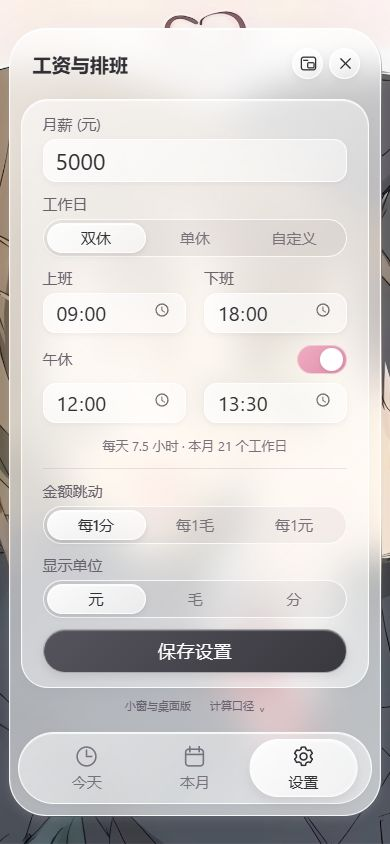
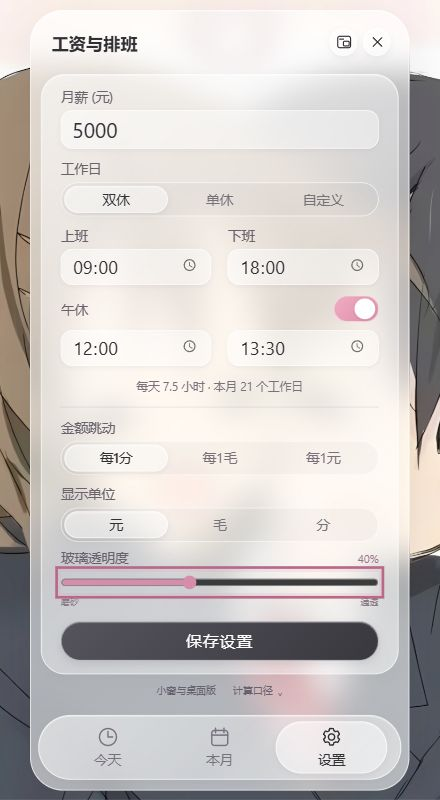
feat: add adjustable glass transparency for main and mini windows

diff --git a/dist/appearance.css b/dist/appearance.css
@@ -1,0 +1,24 @@
+:root{--glass-outerTop:.69;--glass-outerMid:.54;--glass-outerEnd:.59;--glass-surfaceTop:.54;--glass-surfaceMid:.35;--glass-surfaceEnd:.49;--glass-control:.52;--glass-input:.42;--glass-track:.052;--glass-border:.64;--glass-highlight:.41;--glass-blur:19px;--glass-miniSurface:.73;--glass-miniArt:.6}
+.app-shell{background:linear-gradient(135deg,rgba(255,255,255,var(--glass-outerTop)),rgba(255,255,255,var(--glass-outerMid)) 50%,rgba(255,255,255,var(--glass-outerEnd)));border-color:rgba(255,255,255,var(--glass-border));backdrop-filter:blur(var(--glass-blur)) saturate(1.15);-webkit-backdrop-filter:blur(var(--glass-blur)) saturate(1.15);box-shadow:inset 0 1px 1px rgba(255,255,255,var(--glass-highlight)),0 20px 65px rgba(58,41,56,.12)}
+.glass{background:linear-gradient(135deg,rgba(255,255,255,var(--glass-surfaceTop)),rgba(255,255,255,var(--glass-surfaceMid)) 52%,rgba(255,255,255,var(--glass-surfaceEnd)));border-color:rgba(255,255,255,var(--glass-border));box-shadow:inset 0 1px 1px rgba(255,255,255,var(--glass-highlight)),0 5px 11px rgba(67,43,61,.035)}
+.segment-thumb,.nav-indicator,.app-icon,.icon-button{background:linear-gradient(145deg,rgba(255,255,255,var(--glass-control)),rgba(255,255,255,var(--glass-input)));border-color:rgba(255,255,255,var(--glass-border));box-shadow:inset 0 1px 2px rgba(255,255,255,var(--glass-highlight)),0 3px 8px rgba(67,43,61,.07)}
+.segmented{background:rgba(120,110,125,var(--glass-track));border-color:rgba(255,255,255,var(--glass-border))}
+.salary-input,input[type=time]{background:linear-gradient(130deg,rgba(255,255,255,var(--glass-control)),rgba(255,255,255,var(--glass-input)));border-color:rgba(255,255,255,var(--glass-border))}
+.calculation-note p{background:rgba(255,255,255,var(--glass-control))}
+.mini-card{background:linear-gradient(135deg,rgba(255,255,255,var(--glass-surfaceTop)),rgba(255,255,255,var(--glass-surfaceMid)));border-color:rgba(255,255,255,var(--glass-border));box-shadow:inset 0 1px 2px rgba(255,255,255,var(--glass-highlight)),0 8px 28px rgba(53,37,56,.09)}
+.mini-card:before{opacity:var(--glass-miniArt)}.mini-card:after{background:rgba(255,250,252,var(--glass-miniSurface));backdrop-filter:blur(var(--glass-blur));-webkit-backdrop-filter:blur(var(--glass-blur))}
+.mini-units button[aria-pressed=true],.mini-icon[aria-pressed=true]{background:rgba(255,255,255,var(--glass-control))}
+html[data-glass-clear=true] .app-shell,html[data-glass-clear=true] .mini-card{text-shadow:0 1px 2px rgba(255,255,255,.95),0 0 7px rgba(255,255,255,.5)}
+html[data-glass-clear=true] .app-shell svg,html[data-glass-clear=true] .mini-card svg{filter:drop-shadow(0 1px 1px rgba(255,255,255,.7))}
+html[data-glass-clear=true] .clock-panel .eyebrow,html[data-glass-clear=true] .date-line{color:#4d424d}
+html[data-glass-clear=true] .month-preview,html[data-glass-clear=true] .metric-strip,html[data-glass-clear=true] .bottom-nav button{color:#fff;text-shadow:0 1px 3px rgba(0,0,0,.8)}
+html[data-glass-clear=true] .month-preview .muted,html[data-glass-clear=true] .metric-strip .muted{color:rgba(255,255,255,.85)}
+html[data-glass-clear=true] .bottom-nav svg{filter:drop-shadow(0 1px 1px rgba(0,0,0,.7))}
+.glass-label-row{display:flex;justify-content:space-between;align-items:center}.glass-label-row output{font-size:12px;color:#9e718a;font-variant-numeric:tabular-nums}
+.glass-range{display:block;width:100%;height:24px;margin:0;accent-color:#d68da9;cursor:pointer;background:transparent}
+.glass-range-captions{display:flex;justify-content:space-between;font-size:10px;color:#8a7b89;line-height:15px;margin-top:2px}
+.glass-field{margin-top:-3px;margin-bottom:14px}
+.mini-appearance{position:absolute;left:11px;right:11px;top:44px;z-index:5;padding:8px 10px;border:1px solid #fff;border-radius:13px;background:rgba(255,250,253,.94);box-shadow:0 5px 20px #5a3c581c;backdrop-filter:blur(16px);color:#655063;text-shadow:none}
+.mini-appearance label{display:flex;align-items:center;justify-content:space-between;font-size:10px;line-height:15px}.mini-appearance input{height:20px}.mini-appearance output{color:#ad6b8c;font-variant-numeric:tabular-nums}
+body[data-compact=true] .mini-appearance{top:32px;padding:5px 9px;border-radius:11px}
+@media(max-height:650px){.glass-field{margin-bottom:10px}.glass-range{height:20px}.glass-range-captions{font-size:9px;line-height:12px}}

diff --git a/dist/index.html b/dist/index.html
@@ -9,6 +9,7 @@
   <link rel="icon" type="image/svg+xml" href="assets/icon.svg">
   <link rel="manifest" href="manifest.webmanifest">
   <link rel="stylesheet" href="styles.css">
+  <link rel="stylesheet" href="appearance.css">
 </head>
 <body>
   <div class="wallpaper" aria-hidden="true"></div>
@@ -67,6 +68,7 @@
           <div class="form-divider"></div>
           <fieldset class="field-group"><legend class="field-label">金额跳动</legend><div id="step-mode" class="segmented" role="group" aria-label="金额跳动幅度"></div></fieldset>
           <fieldset class="field-group unit-field"><legend class="field-label">显示单位</legend><div id="settings-unit" class="segmented" role="group" aria-label="设置显示单位"></div></fieldset>
+          <div class="glass-field"><label class="field-label glass-label-row" for="glass-transparency">玻璃透明度 <output id="glass-value">40%</output></label><input class="glass-range" type="range" id="glass-transparency" min="0" max="100" step="1" value="40" aria-label="玻璃透明度"><div class="glass-range-captions"><span>磨砂</span><span>通透</span></div></div>
           <p id="form-error" class="form-error" role="alert" hidden></p>
           <button type="submit" class="save-button" id="save-settings">保存设置<span class="button-shine" aria-hidden="true"></span></button>
         </form>

diff --git a/dist/mini.html b/dist/mini.html
@@ -1,1 +1,1 @@
-<!doctype html><html lang="zh-CN"><head><meta charset="utf-8"><meta name="viewport" content="width=device-width, initial-scale=1"><title>攒钱钟小窗</title><link rel="stylesheet" href="mini.css"></head><body><script type="module" src="mini.mjs"></script></body></html>
+<!doctype html><html lang="zh-CN"><head><meta charset="utf-8"><meta name="viewport" content="width=device-width, initial-scale=1"><title>攒钱钟小窗</title><link rel="stylesheet" href="mini.css"><link rel="stylesheet" href="appearance.css"></head><body><script type="module" src="mini.mjs"></script></body></html>

diff --git a/README.md b/README.md
@@ -15,6 +15,7 @@
 - **紧凑模式**：缩成一条轻量计数条，保留金额、倒计时与工作进度。
 - **随窗口适配**：主界面按窗口宽高整体缩放，小窗的字号、间距同步响应尺寸；缩小后内容保持完整，展开时恢复之前的小窗大小。
 - **柔和切换**：页面交接、面板高度、月份、工作日展开和紧凑模式使用连贯过渡，连续点击按最后一次选择收尾。
+- **0–100% 玻璃透明度**：设置页和小窗水滴按钮均可调节，即时预览、自动保存，文字保持清晰。调到最高时，玻璃填充与模糊降到零。
 - **随时返回**：点右上角的展开图标回到主界面，修改工资和排班。
 
 <p>
@@ -23,6 +24,8 @@
 </p>
 
 小窗截图为浏览器模式；Windows 桌面版增加了置顶开关。
+
+<img src="docs/screenshots/transparency.png" width="300" alt="100% 玻璃透明度效果">
 
 <img src="docs/screenshots/small-window.png" width="300" alt="缩小为360×500后的完整界面">
 
@@ -33,7 +36,7 @@
 3. 在“设置”里填好月薪、工作日、上下班与午休，点击“保存设置”。
 4. 点击标题右侧的“小窗模式”图标，主界面会收起，置顶小窗继续计数。
 
-小窗右上角依次是：紧凑 / 展开、置顶、返回主界面、关闭。点击金额也能切换元、毛、分。关闭最后一个可见窗口会退出程序；不会自动开机启动。
+小窗右上角依次是：玻璃透明度（水滴）、紧凑 / 展开、置顶、返回主界面、关闭。点击金额也能切换元、毛、分。关闭最后一个可见窗口会退出程序；不会自动开机启动。更新时请先关闭旧版窗口，再运行新版。
 
 ### 使用网页小窗
 
@@ -50,6 +53,7 @@
 | 统计 | 今日已赚、本月累计、时薪、日薪、已工作时长 |
 | 倒计时 | 上班 / 下班倒计时、当天工作进度 |
 | 金额显示 | 元、毛、分；每赚 1 分、1 毛、1 元跳动 |
+| 玻璃透明度 | 0–100%，实时预览，主界面与小窗联动，自动保存 |
 | 本月 | 真实月历、每日估算、累计收入曲线、排班预计 |
 | 保存 | 当前浏览器或桌面版本地保存，无账号、无服务器数据库 |
 

diff --git a/RELEASE_NOTES.md b/RELEASE_NOTES.md
@@ -1,4 +1,12 @@
-# v1.1.0 — 置顶小窗
+# v1.2.0 — 玻璃透明度
+
+- 新增 0–100% 玻璃透明度滑块，支持从磨砂到极透，调节时即时预览并自动保存。
+- 主界面与小窗保持一致，小窗可通过水滴按钮直接调节。
+- 最高透明度时玻璃填充与模糊降到零，小窗内的插画背景也会隐去；计数与文字保留清晰度。
+- 保留自适应大小、平滑切页和独立 Windows 置顶小窗。
+- 兼容旧版保存的工资与排班，新增外观偏好不会重置原设置。
+
+## v1.1.0 — 置顶小窗
 
 - 新增独立 Windows x64 桌面版，退出浏览器后小窗仍可运行。
 - 新增默认置顶、拖动、调整大小、紧凑模式、返回主界面与关闭小窗。
